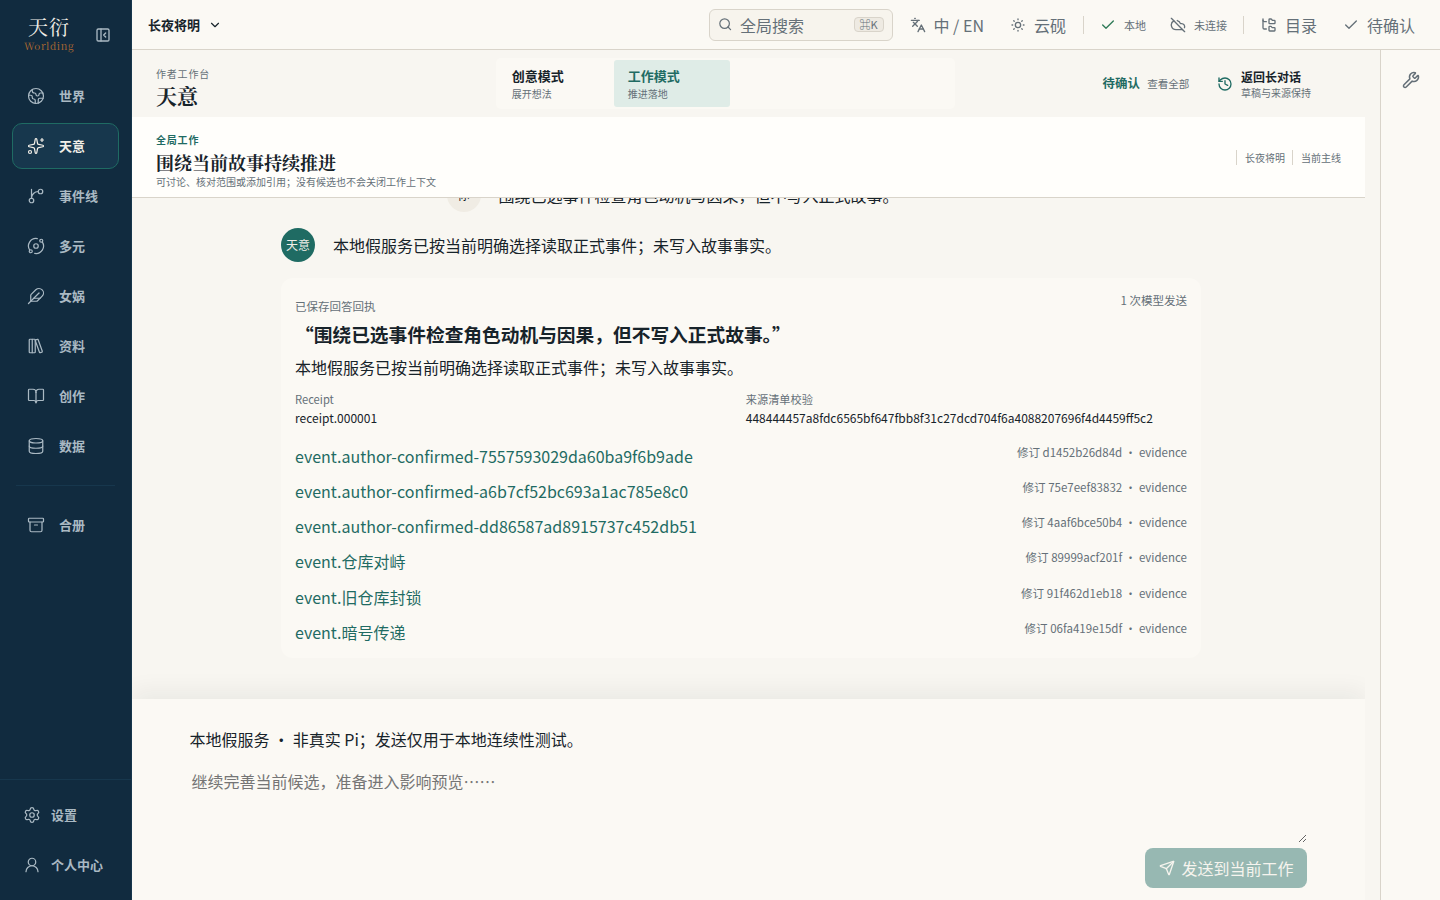
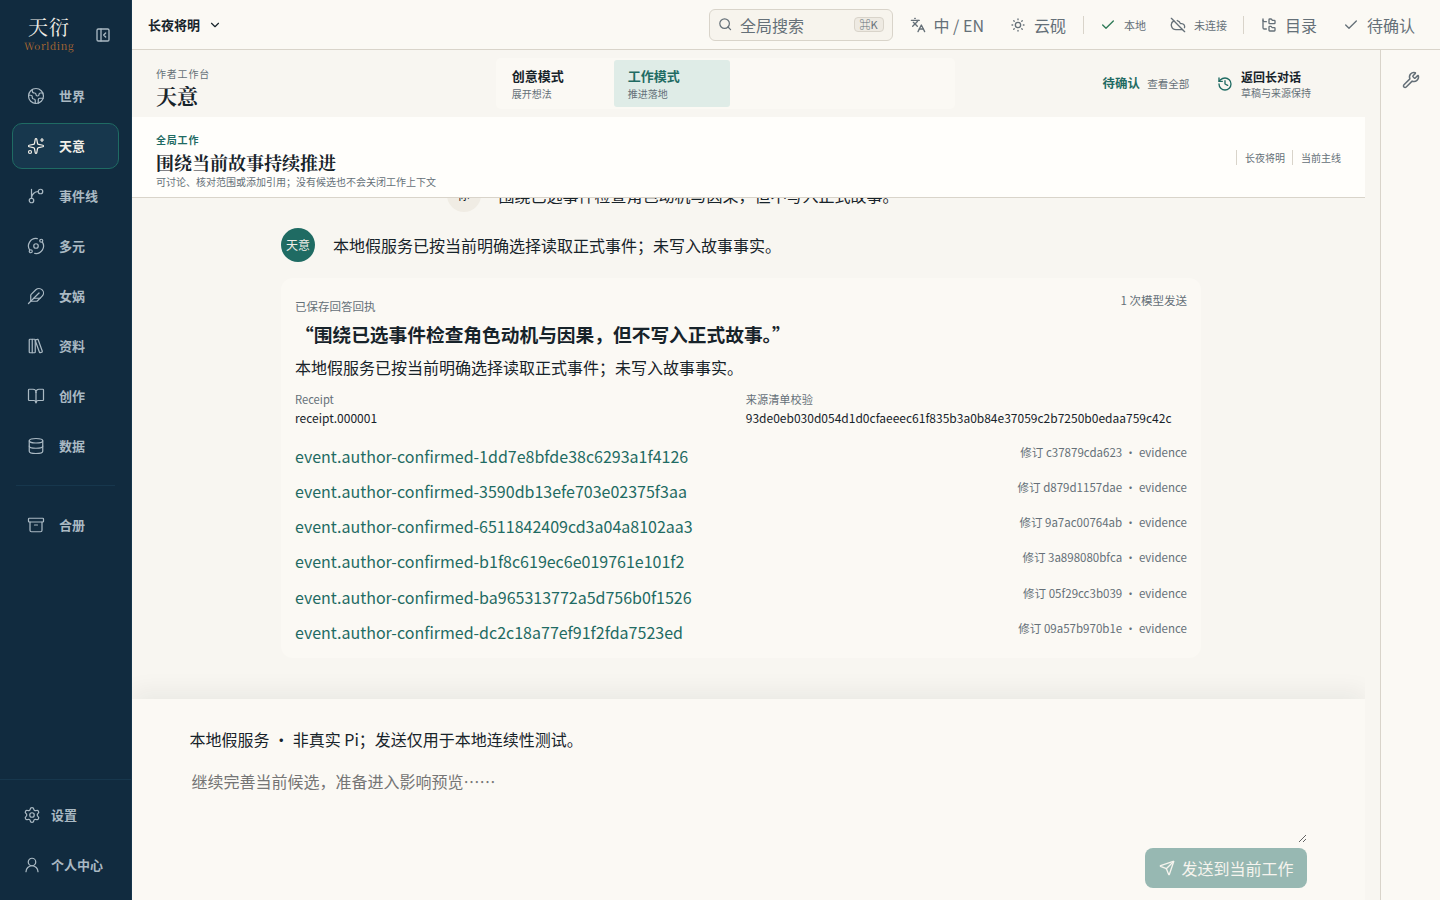
fix(tianyi): recover grounded work context

diff --git a/apps/story-studio/src/components/tianyi/workspace/TianyiConversationWorkspace.tsx b/apps/story-studio/src/components/tianyi/workspace/TianyiConversationWorkspace.tsx
@@ -11,11 +11,11 @@ import {
   getTianyiCreativeProjection,
   getLatestTianyiStoryIntakeRun,
   getTianyiSessionMetadata,
-  getWorldLibrary,
+  getVerifiedCanonEvent,
+  getVerifiedCanonEventList,
   handoffTianyiCreativeCandidate,
   listStoryUnits,
   openTianyiSession,
-  readWorldObject,
   readTianyiGroundedAnswer,
   recoverTianyiAgentRun,
   startTianyiAgentRun,
@@ -38,7 +38,7 @@ import { StoryIntakeReviewSurface } from "./StoryIntakeReviewSurface";
 import { StoryIntakeWorkSurface } from "./StoryIntakeWorkSurface";
 import { useI18n } from "../../../product-shell/i18n/I18nProvider";
 import type { TranslationKey } from "../../../product-shell/i18n/translations";
-import { tianyiStoryIntakeRunStorageKey } from "../../../product-shell/runtime/tianyiShellSessionRecovery";
+import { tianyiConversationStorageKey, tianyiStoryIntakeRunStorageKey } from "../../../product-shell/runtime/tianyiShellSessionRecovery";
 import {
   createActiveStoryIntakeCandidateRef,
   filterStoryIntakeSelection,
@@ -86,7 +86,6 @@ export function TianyiConversationWorkspace(props: { runtime: TianyanShellRuntim
   const workVersionId = runtime.workVersionId ?? "work-version.unversioned";
   const intakeAbort = useRef<AbortController | null>(null);
   const workspaceRef = useRef<HTMLElement | null>(null);
-  const workContextVisit = useRef(0);
   const conversationProjectVisit = useRef({ projectId: project?.id ?? null, workVersionId, generation: 0 });
   if (conversationProjectVisit.current.projectId !== (project?.id ?? null) || conversationProjectVisit.current.workVersionId !== workVersionId) {
     conversationProjectVisit.current = { projectId: project?.id ?? null, workVersionId, generation: conversationProjectVisit.current.generation + 1 };
@@ -95,7 +94,6 @@ export function TianyiConversationWorkspace(props: { runtime: TianyanShellRuntim
   const dialogueRuntime = runtime.modelStatus?.tianyiDialogue.runtime ?? "unavailable";
 
   useEffect(() => {
-    workContextVisit.current += 1;
     intakeAbort.current?.abort();
     setProjection(null);
     setMetadata(null);
@@ -189,18 +187,33 @@ export function TianyiConversationWorkspace(props: { runtime: TianyanShellRuntim
   const refreshWorkContext = useCallback(async () => {
     if (!project) return;
     const projectId = project.id;
-    const visit = ++workContextVisit.current;
+    // A context read is stale only after its project or work-version identity
+    // changes.  Do not invalidate it merely because another render refreshes
+    // local work controls: that used to discard completed Event reads and
+    // leave the author-facing workspace permanently in "loading".
+    const visit = { ...conversationProjectVisit.current };
     setWorkContextState("loading");
     try {
-      const [library, units] = await Promise.all([getWorldLibrary(projectId), listStoryUnits(projectId)]);
-      if (visit !== workContextVisit.current || library.project.id !== projectId) return;
-      // The library is deliberately a summary projection: it has no body to
-      // rank and must never be cast as a full Event.  Read each eligible Event
-      // through the established detail owner before offering a question-based
-      // preview; the Gate repeats the identity/revision checks at send time.
-      const eventSummaries = library.objects.filter((item) => item.type === "event" && (item.status === "draft" || item.status === "planned" || item.status === "committed"));
-      const events = await Promise.all(eventSummaries.map((event) => readWorldObject(projectId, event.id)));
-      if (visit !== workContextVisit.current) return;
+      // The directory is intentionally only a summary projection, while this
+      // work mode needs authoritative Event prose.  Start from Canon's
+      // verified Event list, then use that same owner for each detail read.
+      // This excludes planning drafts and keeps IF/mainline scope at the
+      // existing Canon boundary instead of recreating a second event store.
+      const [list, units] = await Promise.all([
+        getVerifiedCanonEventList(projectId, runtime.workVersionId),
+        listStoryUnits(projectId)
+      ]);
+      if (!sameConversationProjectVisit(conversationProjectVisit.current, visit)) return;
+      if (list.status !== "ready") throw new Error(list.error.message);
+      const events: WorldObject[] = [];
+      for (let offset = 0; offset < list.eventIds.length; offset += 4) {
+        const reads = await Promise.all(list.eventIds.slice(offset, offset + 4).map((eventId) => getVerifiedCanonEvent(projectId, eventId, runtime.workVersionId)));
+        for (const read of reads) {
+          if (read.status !== "ready") throw new Error(read.error.message);
+          events.push(read.event);
+        }
+      }
+      if (!sameConversationProjectVisit(conversationProjectVisit.current, visit)) return;
       setWorkContextEvents(events);
       setWorkContextUnits(units);
       setSelectedWorkUnitId((current) => current && units.some((unit) => unit.id === current) ? current : units[0]?.id ?? null);
@@ -209,14 +222,14 @@ export function TianyiConversationWorkspace(props: { runtime: TianyanShellRuntim
       setRemovedWorkEventIds((current) => current.filter((id) => events.some((event) => event.id === id)));
       setWorkContextState("ready");
     } catch {
-      if (visit === workContextVisit.current) setWorkContextState("failed");
+      if (sameConversationProjectVisit(conversationProjectVisit.current, visit)) setWorkContextState("failed");
     }
-  }, [project?.id]);
+  }, [project?.id, workVersionId]);
 
   useEffect(() => {
     if (!project) return;
     void refreshWorkContext();
-  }, [project?.id, refreshWorkContext, workVersionId]);
+  }, [project?.id, refreshWorkContext]);
 
   // An exclusion is an instruction for this question and scope only; carrying
   // it into the next question would silently change a new author request.
@@ -282,6 +295,14 @@ export function TianyiConversationWorkspace(props: { runtime: TianyanShellRuntim
     if (ref) window.sessionStorage.setItem(key, serializeActiveStoryIntakeCandidateRef(ref));
     else window.sessionStorage.removeItem(key);
   }, [project, runtime.tianyiConversationId]);
+  // Runtime bootstrap normally restores this pointer.  Keep the Work surface
+  // independently resilient to its asynchronous project bootstrap so a
+  // completed grounded-answer receipt remains recoverable after refresh.
+  useEffect(() => {
+    if (!project || runtime.tianyiConversationId) return;
+    const savedSessionId = window.sessionStorage.getItem(tianyiConversationStorageKey(project.id));
+    if (savedSessionId) runtime.setTianyiConversationId(savedSessionId);
+  }, [project?.id, runtime, runtime.tianyiConversationId]);
   const ensureConversation = useCallback(async (visit = conversationProjectVisit.current): Promise<string | null> => {
     if (!project) throw new Error(t("tianyi.workspace.noProject"));
     if (visit.projectId !== project.id || !sameConversationProjectVisit(conversationProjectVisit.current, visit)) return null;
@@ -302,13 +323,22 @@ export function TianyiConversationWorkspace(props: { runtime: TianyanShellRuntim
     if (!project) return;
     const projectId = project.id;
     if (visit.projectId !== projectId || !sameConversationProjectVisit(conversationProjectVisit.current, visit)) return;
-    const [nextProjection, nextMetadata] = await runtime.withConnection((token) => Promise.all([
-      getTianyiCreativeProjection(projectId, sessionId, token),
-      getTianyiSessionMetadata(projectId, sessionId, token)
-    ]));
+    // A Work-only conversation has no obligation to have a Creative
+    // projection.  Its durable metadata (and therefore its frozen grounded
+    // receipt) must still recover after refresh when that optional projection
+    // is unavailable.
+    const nextMetadata = await runtime.withConnection((token) => getTianyiSessionMetadata(projectId, sessionId, token));
+    if (!sameConversationProjectVisit(conversationProjectVisit.current, visit)) return;
+    setMetadata(Array.isArray(nextMetadata) ? nextMetadata.find((item) => item.id === sessionId) ?? null : nextMetadata);
+    let nextProjection: TianyiCreativeProjection | null = null;
+    try {
+      nextProjection = await runtime.withConnection((token) => getTianyiCreativeProjection(projectId, sessionId, token));
+    } catch {
+      // Creative lanes can remain unavailable without hiding a saved Work
+      // receipt; opening a Creative action will surface its own error.
+    }
     if (!sameConversationProjectVisit(conversationProjectVisit.current, visit)) return;
     setProjection(nextProjection);
-    setMetadata(Array.isArray(nextMetadata) ? nextMetadata.find((item) => item.id === sessionId) ?? null : nextMetadata);
     const activeCandidate = candidateId ?? nextProjection?.candidates.find((item) => item.state === "handed-off")?.candidateId ?? null;
     if (activeCandidate) runtime.setActiveTianyiCandidateId(activeCandidate);
   }, [project, runtime]);

diff --git a/tests/storyStudio/tianyanR4WorkspaceStability.test.ts b/tests/storyStudio/tianyanR4WorkspaceStability.test.ts
@@ -39,8 +39,8 @@ test("R4 review follow-up keeps directory ownership and async project fences in 
   assert.match(pending, /loadId !== reloadSequence\.current/u);
   assert.match(pending, /activeProjectId\.current !== projectId/u, "a previous project's inbox response cannot publish into the current project");
   assert.match(pending, /operationId: `nuwa-adoption:/u, "candidate adoption has a durable planning-event operation identity");
-  assert.match(tianyi, /workContextVisit/u);
-  assert.match(tianyi, /library\.project\.id !== projectId/u);
+  assert.match(tianyi, /getVerifiedCanonEventList\(projectId, runtime\.workVersionId\)/u);
+  assert.match(tianyi, /getVerifiedCanonEvent\(projectId, eventId, runtime\.workVersionId\)/u);
   assert.match(tianyi, /conversationProjectVisit/u);
   assert.match(tianyi, /sameConversationProjectVisit/u, "a delayed work-lane reply cannot clear or refresh the next project's composer");
   assert.match(tianyi, /const submitCreative = async \(\) => \{[\s\S]*?const visit = conversationProjectVisit\.current;[\s\S]*?ensureConversation\(visit\)/u, "Story Intake captures the initiating project generation before any asynchronous write");
@@ -138,7 +138,7 @@ test("R4-R1 makes Work a durable global lane and moves Story Intake review into 
   assert.match(workspace, /data-global-work=\{lane === "work" && !activeIntakeCandidate/u);
   assert.match(workspace, /发送到当前工作/u);
   assert.match(workspace, /不会因没有候选而中断/u);
-  assert.match(workspace, /getWorldLibrary\(projectId\)/u, "全局 Work 必须读取既有正式 Event 投影，而不是凭空构造上下文");
+  assert.match(workspace, /getVerifiedCanonEventList\(projectId, runtime\.workVersionId\)/u, "全局 Work 必须读取既有正式 Canon Event 投影，而不是凭空构造上下文");
   assert.match(workspace, /createStoryStudioEventReference/u);
   assert.match(workspace, /globalWorkEventRefs/u);
   assert.match(workspace, /eventRefs: globalWorkEventRefs/u, "明确发送时必须把选择的版本化 Event 引用交给 grounded context");

diff --git a/apps/story-studio/src/components/EventLineWorkbench.tsx b/apps/story-studio/src/components/EventLineWorkbench.tsx
@@ -885,7 +885,7 @@ export function EventLineWorkbench(props: {
     {mapReturn ? <button type="button" className="event-line-map-return" onClick={() => window.location.assign(mapReturn)}>返回地点地图</button> : null}
     {relationReturn ? <button type="button" className="event-line-map-return" onClick={() => window.location.assign(relationReturn)}>返回关系查看</button> : null}
     {tianyiReturn ? <button type="button" className="event-line-map-return" onClick={() => window.location.assign(tianyiReturn)}>返回天意问题</button> : null}
-    {selectedRevisionMismatch ? <p className="event-line-source-revision-error" role="alert">关系依据的事件修订不匹配，未展示较新的事件内容。请返回关系查看核对来源。</p> : null}
+    {selectedRevisionMismatch ? <p className="event-line-source-revision-error" role="alert">{tianyiReturn ? "本问来源的事件修订不匹配，未展示较新的事件内容。请返回天意问题核对来源。" : "关系依据的事件修订不匹配，未展示较新的事件内容。请返回关系查看核对来源。"}</p> : null}
     {!props.embedded ? <WorkspaceHeader
       projectTitle={props.projectTitle}
       sectionLabel="事件线"

diff --git a/tests/storyStudio/storyIntakeWorkspaceRegressionG1.test.ts b/tests/storyStudio/storyIntakeWorkspaceRegressionG1.test.ts
@@ -34,7 +34,7 @@ test("project changes clear transient Envelope state before project-scoped recov
   assert.match(workspace, /setIntakeRun\(null\)/u);
   assert.match(workspace, /setActiveIntakeRef\(null\)/u);
   assert.match(workspace, /setSelectedIntakeCandidateIds\(\[\]\)/u);
-  assert.match(workspace, /\[project\?\.id\]/u);
+  assert.match(workspace, /\[project\?\.id, workVersionId\]/u);
 });
 
 test("Work uses a controlled narrative position and functional candidate-only exploration", () => {

diff --git a/data/2026-09-11_MEM-A1a-R1检索闭环/工作日志.md b/data/2026-09-11_MEM-A1a-R1检索闭环/工作日志.md
@@ -22,3 +22,10 @@
 - 代码检查点：`1cbbd5ee5e573f5f0ec6e860877ee8fb6921ed20`。
 - 本目录记录的浏览器链只使用隔离项目和确定性假 Provider；真实 Provider 发送为 0，设置诊断预算未触碰。
 - 日常 4191/4192 服务、正式作品和既有 API 记录均未修改。
+
+## R1 收尾修复
+
+- 工作模式改由既有 Canon 正式事件读取链提供完整正文，不再把资料目录摘要或规划草稿当作可检索故事事实。
+- 修正项目/作品版本身份稳定时被无关渲染废弃的读取结果；大量正式事件不再永久显示“正在读取”。
+- 刷新与来源返回时，工作模式的只读元数据恢复不再依赖可选创意投影；冻结回执不会触发新的模型发送。
+- 本轮再次运行隔离 `r4-workspace` 浏览器链并覆盖本目录截图；真实 Provider 发送仍为 0。

diff --git a/data/2026-09-11_MEM-A1a-R1检索闭环/验证/验证报告.md b/data/2026-09-11_MEM-A1a-R1检索闭环/验证/验证报告.md
@@ -11,6 +11,7 @@
 - 定向测试：21/21 通过，覆盖 6 项上限、7 项拒绝、零命中、显式固定、冻结回答不受后来正文变化影响，以及本地传输合同。
 - `npm run verify`：通过；包含 typecheck、lint、unit（1183/1183）、integration（57/57）、完整 E2E 和 production build。
 - 隔离浏览器 E2E：`TIANYAN_E2E_SCOPE=r4-workspace` 通过，实际链为“输入问题 → 六条依据 → 假 SSE 回答 → 冻结回执 → 刷新恢复 → 精确修订来源 → 返回天意”。
+- 2026-09-11 收尾回归：同一隔离浏览器链再次通过；第九条新建正式事件被按问题自动召回，零命中不补入无关事件，来源正文后续修订不会替换冻结来源。
 
 ## 可视证据
 
